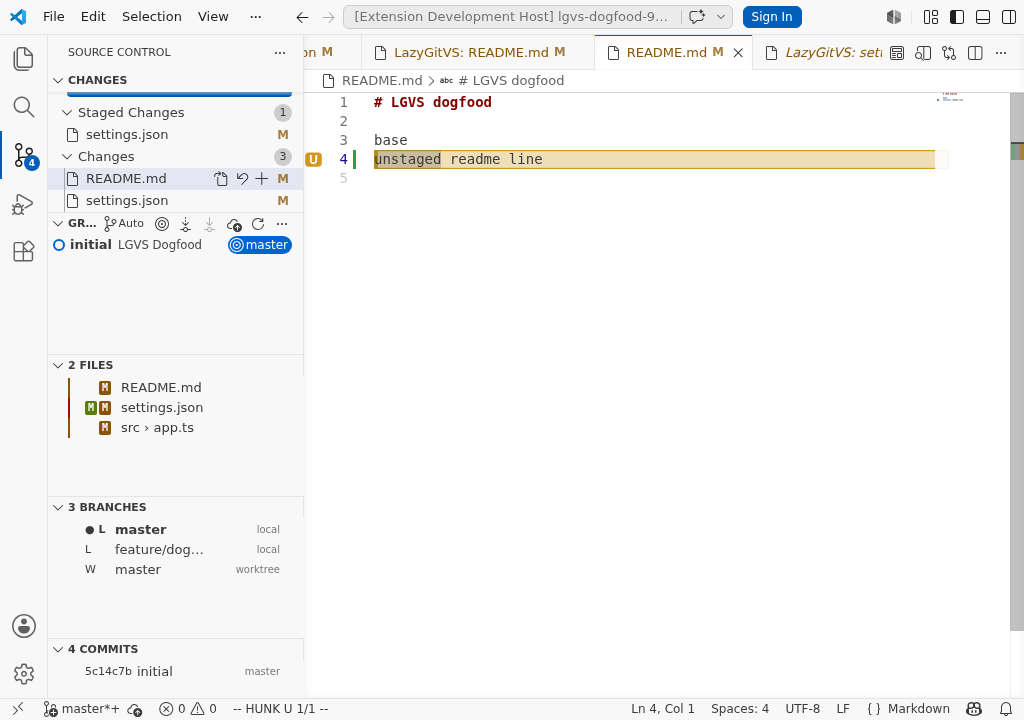
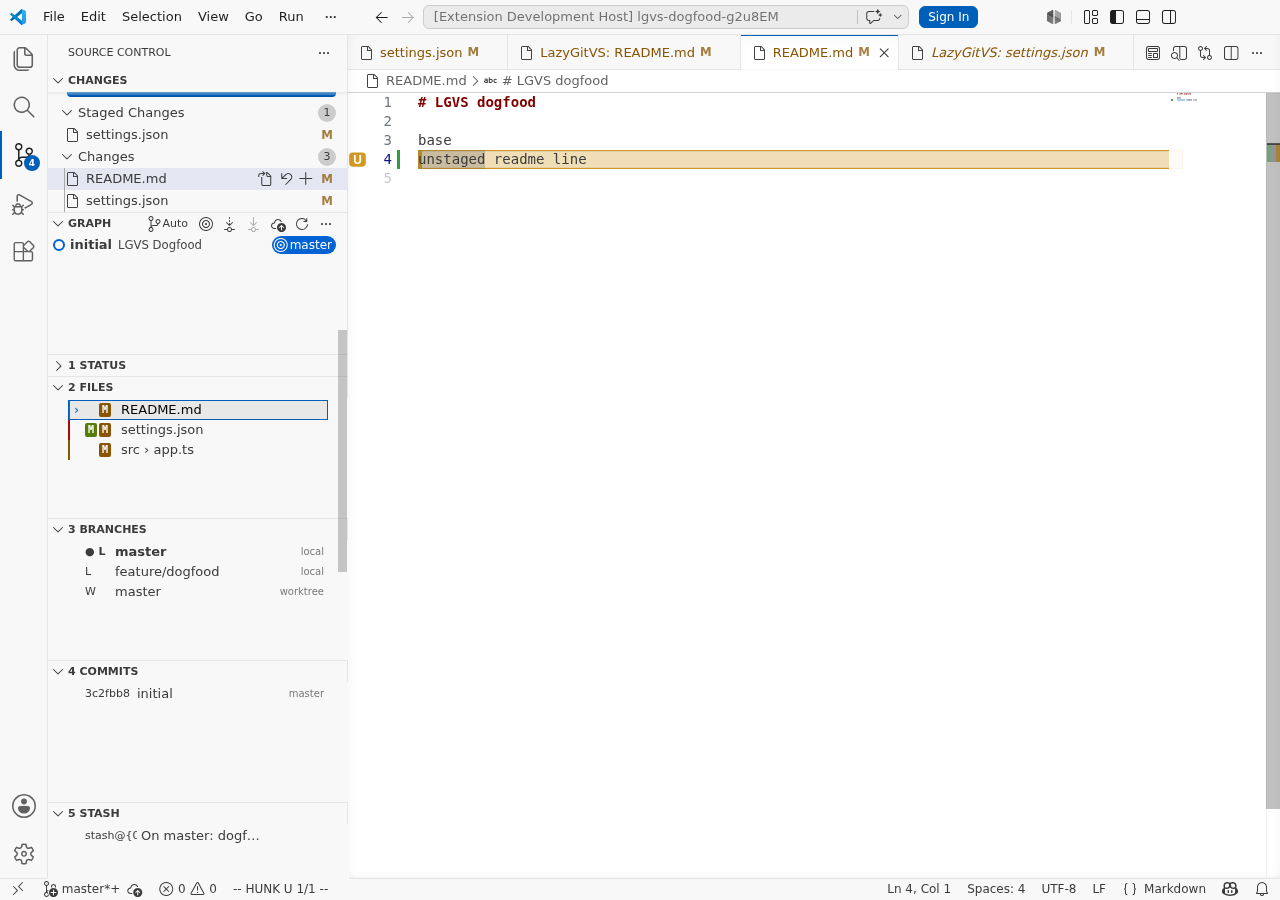
Polish default SCM panel layout

diff --git a/src/extension.ts b/src/extension.ts
@@ -512,7 +512,7 @@ class LazyGitVSController {
   private conflictSelected = 0;
   private filterText = '';
   private fileStatusFilter: 'all' | 'staged' | 'unstaged' | 'tracked' | 'untracked' = 'all';
-  private activePanel: Panel = 'status';
+  private activePanel: Panel = 'files';
   private previousPanel: Panel = 'files';
   private hunkSide: 'unstaged' | 'staged' = 'unstaged';
   private hunkSelectionMode: 'hunk' | 'line' = 'hunk';
@@ -545,6 +545,7 @@ class LazyGitVSController {
   private lazygitGit = cloneGitConfig();
   private lazygitConfigFiles: string[] = [];
   private suppressWebviewAutoFocusUntil = 0;
+  private defaultPanelsRevealed = false;
 
   constructor(private readonly context: vscode.ExtensionContext) {
     this.unstagedHunkDecoration = vscode.window.createTextEditorDecorationType({ isWholeLine: true, backgroundColor: 'rgba(210, 153, 34, 0.13)', borderWidth: '0 0 0 2px', borderStyle: 'solid', borderColor: '#d29922' });
@@ -576,7 +577,6 @@ class LazyGitVSController {
   private updateActiveViewContext() {
     const viewPanel = this.activeViewPanel();
     void vscode.commands.executeCommand('setContext', 'lazygitvs.activeView', viewPanel);
-    void vscode.commands.executeCommand('setContext', 'lazygitvs.statusViewVisible', viewPanel === 'status');
   }
 
   attach(panel: ViewPanel, view: vscode.WebviewView) {
@@ -702,7 +702,18 @@ class LazyGitVSController {
     });
   }
 
-  focus() { this.loadLazyGitConfig(); return this.focusPanel(this.activeViewPanel()); }
+  async focus() {
+    this.loadLazyGitConfig();
+    await this.revealDefaultOpenPanels();
+    return this.focusPanel(this.activeViewPanel());
+  }
+  private async revealDefaultOpenPanels() {
+    if (this.defaultPanelsRevealed) return;
+    this.defaultPanelsRevealed = true;
+    for (const panel of PANEL_ORDER.filter((panel): panel is ViewPanel => panel !== 'status')) {
+      await this.revealPanelView(panel).catch(() => undefined);
+    }
+  }
   async focusNumberPanel(index: number) {
     const panel = PANEL_ORDER[index - 1];
     if (!panel) return;

diff --git a/test/nativePanelFocus.test.js b/test/nativePanelFocus.test.js
@@ -10,12 +10,17 @@ const views = pkg.contributes.views.scm;
 assert(views.length >= 8, 'LGVS should keep the real multi-panel SCM layout');
 for (const view of views) {
   if (view.id === 'lazygitvs.statusView') {
-    assert.strictEqual(view.when, 'lazygitvs.statusViewVisible', 'Status may be hidden when inactive so it does not reserve an oversized empty SCM pane');
+    assert.strictEqual(view.visibility, 'collapsed', 'Status should default collapsed so it does not reserve an oversized empty SCM pane');
+    assert(!Object.prototype.hasOwnProperty.call(view, 'when'), 'Status should not disappear behind a context key; it stays as a collapsed native header');
   } else {
     assert(!Object.prototype.hasOwnProperty.call(view, 'when'), `SCM view ${view.id} must not be hidden behind activeView context`);
+    assert.strictEqual(view.visibility, 'visible', `SCM view ${view.id} should default open for README/product screenshots`);
   }
 }
 
+assert(extension.includes('private defaultPanelsRevealed = false;'), 'LGVS should reveal the default-open non-status panels only once on dashboard focus');
+assert(extension.includes("PANEL_ORDER.filter((panel): panel is ViewPanel => panel !== 'status')"), 'default focus should open panels 2-8 while leaving 1 Status collapsed');
+assert(extension.includes('await this.revealDefaultOpenPanels();'), 'openDashboard should reveal default-open panels before focusing Files');
 assert(!extension.includes('private async makeRoomForLazyGitViews'), 'do not ship fake room-making helpers for native SCM scrolling');
 assert(!extension.includes("executeCommand('workbench.action.decreaseViewSize')"), 'panel jumps must not resize VS Code views');
 assert(!extension.includes("executeCommand('list.scrollDown')"), 'panel jumps must not blindly scroll whichever list has focus');

diff --git a/test/statusRepoSelection.test.js b/test/statusRepoSelection.test.js
@@ -15,8 +15,8 @@ assert(extension.includes("if (panel === 'status') return this.recentReposMenu()
 assert(extension.includes('class StatusTreeProvider implements vscode.TreeDataProvider<vscode.TreeItem>'), '1 Status should use a native compact TreeView instead of a tall webview');
 assert(extension.includes("vscode.window.createTreeView(VIEW_IDS.status, { treeDataProvider: statusProvider })"), '1 Status must be registered as a native TreeView');
 assert(!extension.includes("registerWebviewViewProvider(VIEW_IDS.status"), '1 Status must not be registered as a webview; webviews keep too much empty vertical space');
-assert(pkg.includes('"when": "lazygitvs.statusViewVisible"'), '1 Status should be hidden when inactive so it does not reserve a huge empty SCM pane');
-assert(extension.includes("setContext', 'lazygitvs.statusViewVisible', viewPanel === 'status'"), 'Status view visibility must track active panel');
+assert(pkg.includes('\"id\": \"lazygitvs.statusView\"') && pkg.includes('\"visibility\": \"collapsed\"'), '1 Status should default collapsed so it only consumes a header row');
+assert(!pkg.includes('\"when\": \"lazygitvs.statusViewVisible\"'), '1 Status should remain visible as a collapsed native header, not disappear behind a context key');
 assert(extension.includes("item.command = { command: 'lazygitvs.statusRecentRepos', title: 'Switch to workspace repository' };"), 'Status row Enter/click must open the recent repository selector');
 assert(extension.includes("title: 'Recent repositories'"), 'Repository selector title should mirror lazygit original wording');
 assert(extension.includes("if (!activeWorkspaceRoot || !roots.has(activeWorkspaceRoot)) activeWorkspaceRoot = roots.keys().next().value"), 'Active repo must reset when the workspace repo set changes, not cling to a stale previous root');
@@ -27,6 +27,7 @@ assert(!extension.includes("const item = new vscode.TreeItem('enter', vscode.Tre
 assert(!extension.includes('<div class="lg-logo">lazygit</div>'), '1 Status must not render a large dashboard/logo in the sidebar');
 assert(!extension.includes('All branches log'), '1 Status sidebar must not advertise a/A all-branches actions; lazygit original does not show those on-screen in Status');
 assert(!extension.includes("row(false, staged ? 'staged' : '', 'staged', String(staged))"), '1 Status must not show invented staged/changed/new metrics');
+assert(extension.includes("private activePanel: Panel = 'files';"), 'LazyGitVS should default to Files so 1 Status stays collapsed until explicitly focused');
 assert(!extension.includes("row(false, '', 'gui'"), '1 Status must not dump internal gui config rows');
 
 console.log('statusRepoSelection tests passed');